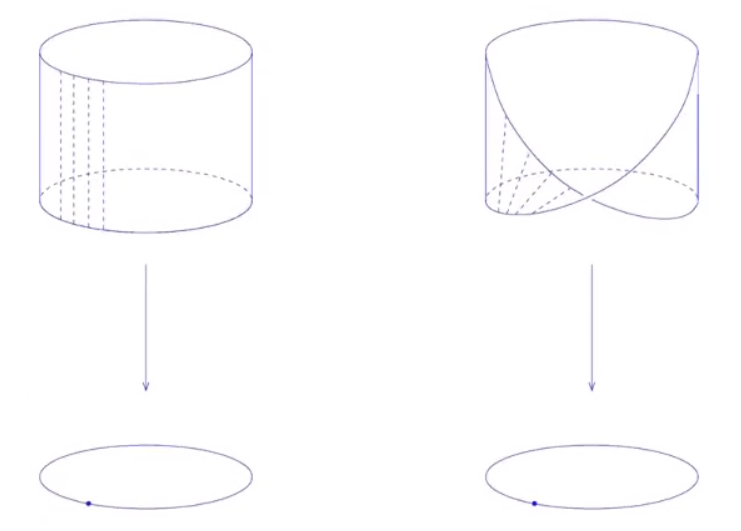
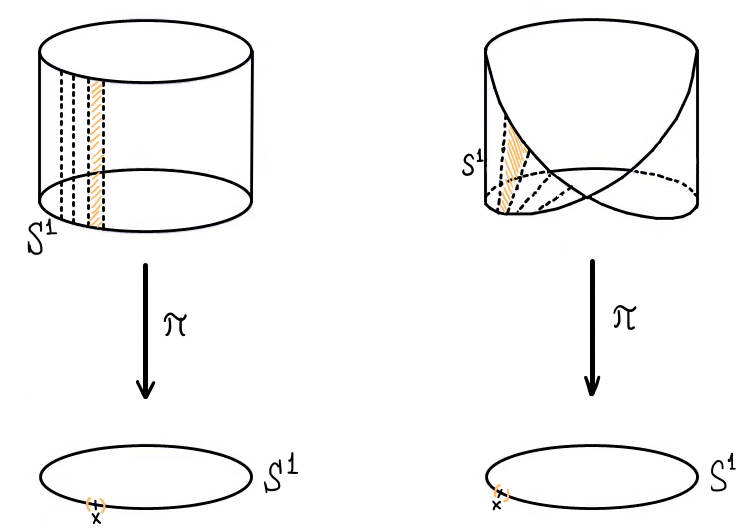
fibrados tops da balada

diff --git a/notes/fundamental-group/03.html b/notes/fundamental-group/03.html
@@ -5,7 +5,7 @@
     <meta name="viewport" content="width=device-width, initial-scale=1, shrink-to-fit=no">
     <meta name="description" content="">
     <meta name="author" content="">
-    <link rel="icon" href="reals.ico">
+    <link rel="icon" href="../../reals.ico">
 
     <script src="https://polyfill.io/v3/polyfill.min.js?features=es6"></script>
     <script type="text/javascript" async
@@ -18,7 +18,7 @@
       });
     </script>
 
-    <title>Alguns Exemplos Importantes</title>
+    <title>Fibrados e Recobrimentos</title>
 
     <link rel="canonical" href="https://getbootstrap.com/docs/4.0/examples/jumbotron/">
 
@@ -56,19 +56,28 @@
       <!-- Main jumbotron for a priary marketing message or call to action -->
       <div class="jumbotron">
         <div class="container">
-          <h1 class="display-3 text-center">?</h1>
+          <h1 class="display-3 text-center">Fibrados e Recobrimentos</h1>
         </div>
       </div>
 
       <div class="container">
       <h5 class="text-center">Fibrados</h5>
 
-      <p class="text-justify">Um fibrado é uma aplicação contínua $\pi \colon E \to B$ tal que existe um outro espaço $F$ e, para todo $x \in B$ existe uma vizinhança $U \subset B$ e um homeomorfismo $\phi_U \colon U \times F \to \pi^{-1}(U)$ tal que $\pi_U = \pi \circ \phi_U$ é a projeção na primeira coordenada. $E$ é chamado de espaço total do fibrado, $B$ de base do fibrado e $F$ de fibra do fibrado. Vamos nos utilizar, daqui para frente, de um abuso de linguagem e dizer que o espaço total do fibrado é, na verdade, o fibrado (ou seja, fibrado agora passa a ser um espaço que é espaço total de um fibrado).</p>
+      <p class="text-justify">Um fibrado é uma aplicação contínua $\pi \colon E \to B$ tal que existe um outro espaço $F$ e, para todo $x \in B$ existe uma vizinhança $U \subset B$ e um homeomorfismo $\phi_{U_x} \colon U \times F \to \pi^{-1}(U)$ tal que $\pi_{U_x} = \pi \circ \phi_{U_x}$ é a projeção na primeira coordenada. $E$ é chamado de espaço total do fibrado, $B$ de base do fibrado e $F$ de fibra do fibrado. Vamos nos utilizar, daqui para frente, de um abuso de linguagem e dizer que o espaço total do fibrado é, na verdade, o fibrado (ou seja, fibrado agora passa a ser um espaço que é espaço total de um fibrado).</p>
 
       <p class="text-justify"><b>Exemplo 01:</b> o cilindo e a faixa de Möbius são fibrados com base $\mathbb{S}^1$ e fibra $[0,1]$. Ambos os mapas fibrados são projeções:</p>
 
-      <img class="w-50 rounded mx-auto d-block" src="03/cilindro-mobius-fibrado.png" alt="Responsive image">
+      <img class="w-75 rounded mx-auto d-block" src="03/cilindro-mobius-fibrado.png" alt="Responsive image">
       <p class="text-center">Projeções de fibrados em $\mathbb{S}^1$.</p>
+
+      <p class="text-justify">Perceba como em cada ponto de $x \in \mathbb{S}^1$ podemos tomar uma vizinhança $U_x$ (em laranja) de forma que localmente, o fibrado se pareça muito com $U_x \times [0,1]$ e, além disso, de forma que essa parte do fibrado que se parece com $U_x \times [0,1]$ quando "projetada" por $\pi$ para $\mathbb{S}^1$ cai exatamente em $U_x$.</p>
+
+      <p class="text-justify">Além desses dois, temos também que $\mathbb{R}$ pode ser visto com um fibrado com base $\mathbb{S}^1$, mas desta vez a fibra é diferente:</p>
+
+      <img class="h-25 rounded mx-auto d-block" src="03/R-fibrado-S1.png" alt="Responsive image">
+      <p class="text-center">$\mathbb{R}$ como fibrado sobre $\mathbb{S}^1$</p>
+
+      <p class="text-justify">Perceba como desta vez temos que o produto $U_x \times F$ é a união de um cópia de $U_x$ em cada intervalo da forma $[n, n+1]$ para $n$ inteiro, portanto $F = \mathbb{Z}$.</p>
 
       </div> <!-- /container -->
     </main>

diff --git a/index.html b/index.html
@@ -64,8 +64,8 @@
         <!-- Example row of columns -->
         <div class="row">
           <div class="col-md-4">
-            <h2>Alguns Exemplos Importantes</h2>
-            <p class="text-justify">Vamos agora provar que o grupo fundamental de $\mathbb{S}^1$ é o conjunto dos números inteiros (munido, claramente, da adição). Para isso, vamos considerar o mapa $\phi(t) = (\cos t, \sin t)$. Note que $\phi$ é um morfismo de grupos, pois $\phi(u + v)$ $=$ $(\cos u+v, \sin u+v)$ $=$ ...</p>
+            <h2>Fibrados e Recobrimentos</h2>
+            <p class="text-justify">Um fibrado é uma aplicação contínua $\pi \colon E \to B$ tal que existe um outro espaço $F$ e, para todo $x \in B$ existe uma vizinhança $U \subset B$ e um homeomorfismo $\phi_{U_x} \colon U \times F \to \pi^{-1}(U)$ tal que $\pi_{U_x} = \pi \circ \phi_{U_x}$ é a projeção na primeira coordenada. $E$ é chamado de espaço total ...</p>
             <p><a class="btn btn-secondary" href="notes/fundamental-group/03.html" role="button">Ver mais &raquo;</a></p>
           </div>
           <div class="col-md-4">

diff --git a/notes/main.html b/notes/main.html
@@ -6,7 +6,7 @@
     <meta name="viewport" content="width=device-width, initial-scale=1, shrink-to-fit=no">
     <meta name="description" content="">
     <meta name="author" content="">
-    <link rel="icon" href="reals.ico">
+    <link rel="icon" href="../reals.ico">
 
     <script src="https://polyfill.io/v3/polyfill.min.js?features=es6"></script>
     <script id="MathJax-script" async src="https://cdn.jsdelivr.net/npm/mathjax@3/es5/tex-mml-chtml.js"></script>
@@ -61,7 +61,7 @@
             <ol>
               <li><a href="fundamental-group/01.html">Homotopia e Extensões Contínuas</a></li>
               <li><a href="fundamental-group/02.html">O Grupo Fundamental</a></li>
-              <li><a href="fundamental-group/03.html">Alguns Exemplos Importantes</a></li>
+              <li><a href="fundamental-group/03.html">Fibrados e Recobrimentos</a></li>
             </ol>
           </div>
           <!-- <div class="col-md-4">

diff --git a/notes/fundamental-group/01.html b/notes/fundamental-group/01.html
@@ -6,7 +6,7 @@
     <meta name="viewport" content="width=device-width, initial-scale=1, shrink-to-fit=no">
     <meta name="description" content="">
     <meta name="author" content="">
-    <link rel="icon" href="reals.ico">
+    <link rel="icon" href="../../reals.ico">
 
     <script type="text/javascript" async
   		src="https://cdnjs.cloudflare.com/ajax/libs/mathjax/2.7.7/latest.js?config=TeX-MML-AM_CHTML">

diff --git a/notes/fundamental-group/02.html b/notes/fundamental-group/02.html
@@ -5,7 +5,7 @@
     <meta name="viewport" content="width=device-width, initial-scale=1, shrink-to-fit=no">
     <meta name="description" content="">
     <meta name="author" content="">
-    <link rel="icon" href="reals.ico">
+    <link rel="icon" href="../../reals.ico">
 
     <script src="https://polyfill.io/v3/polyfill.min.js?features=es6"></script>
     <script type="text/javascript" async
